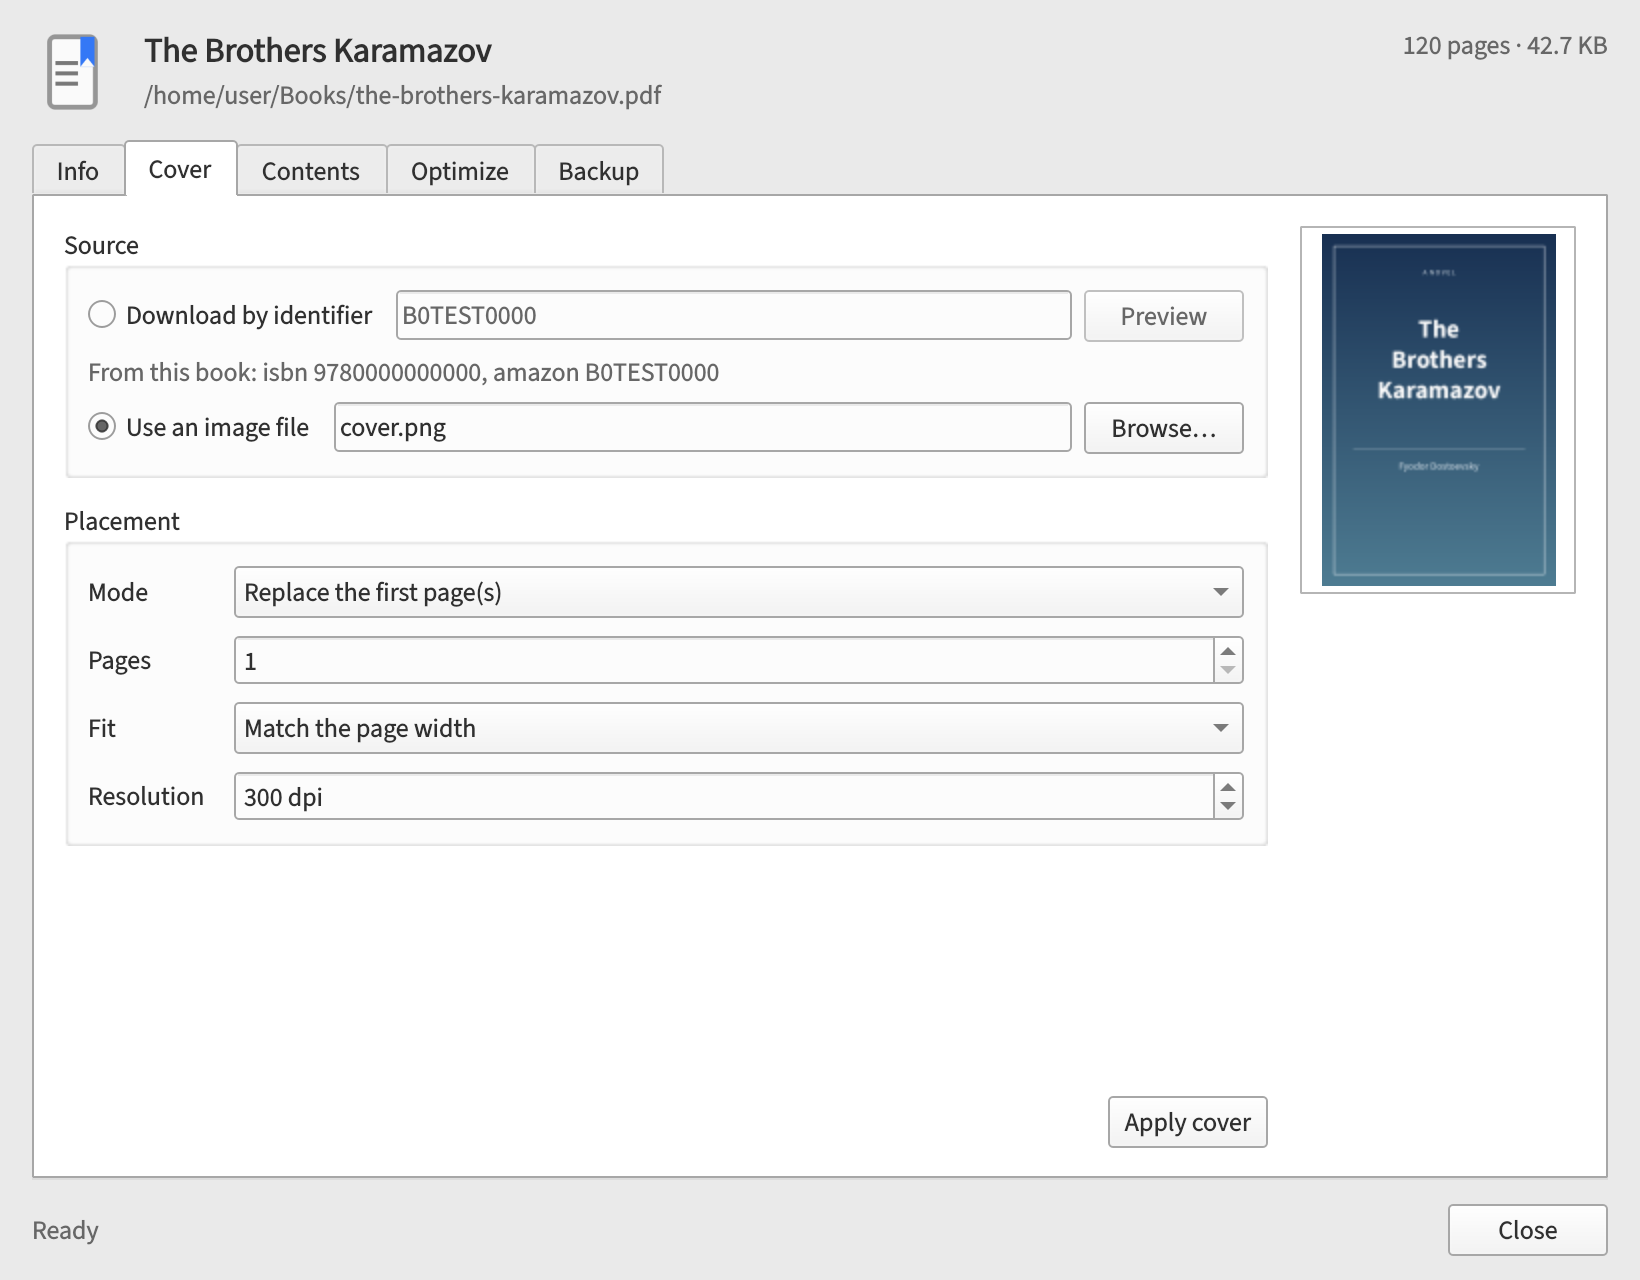
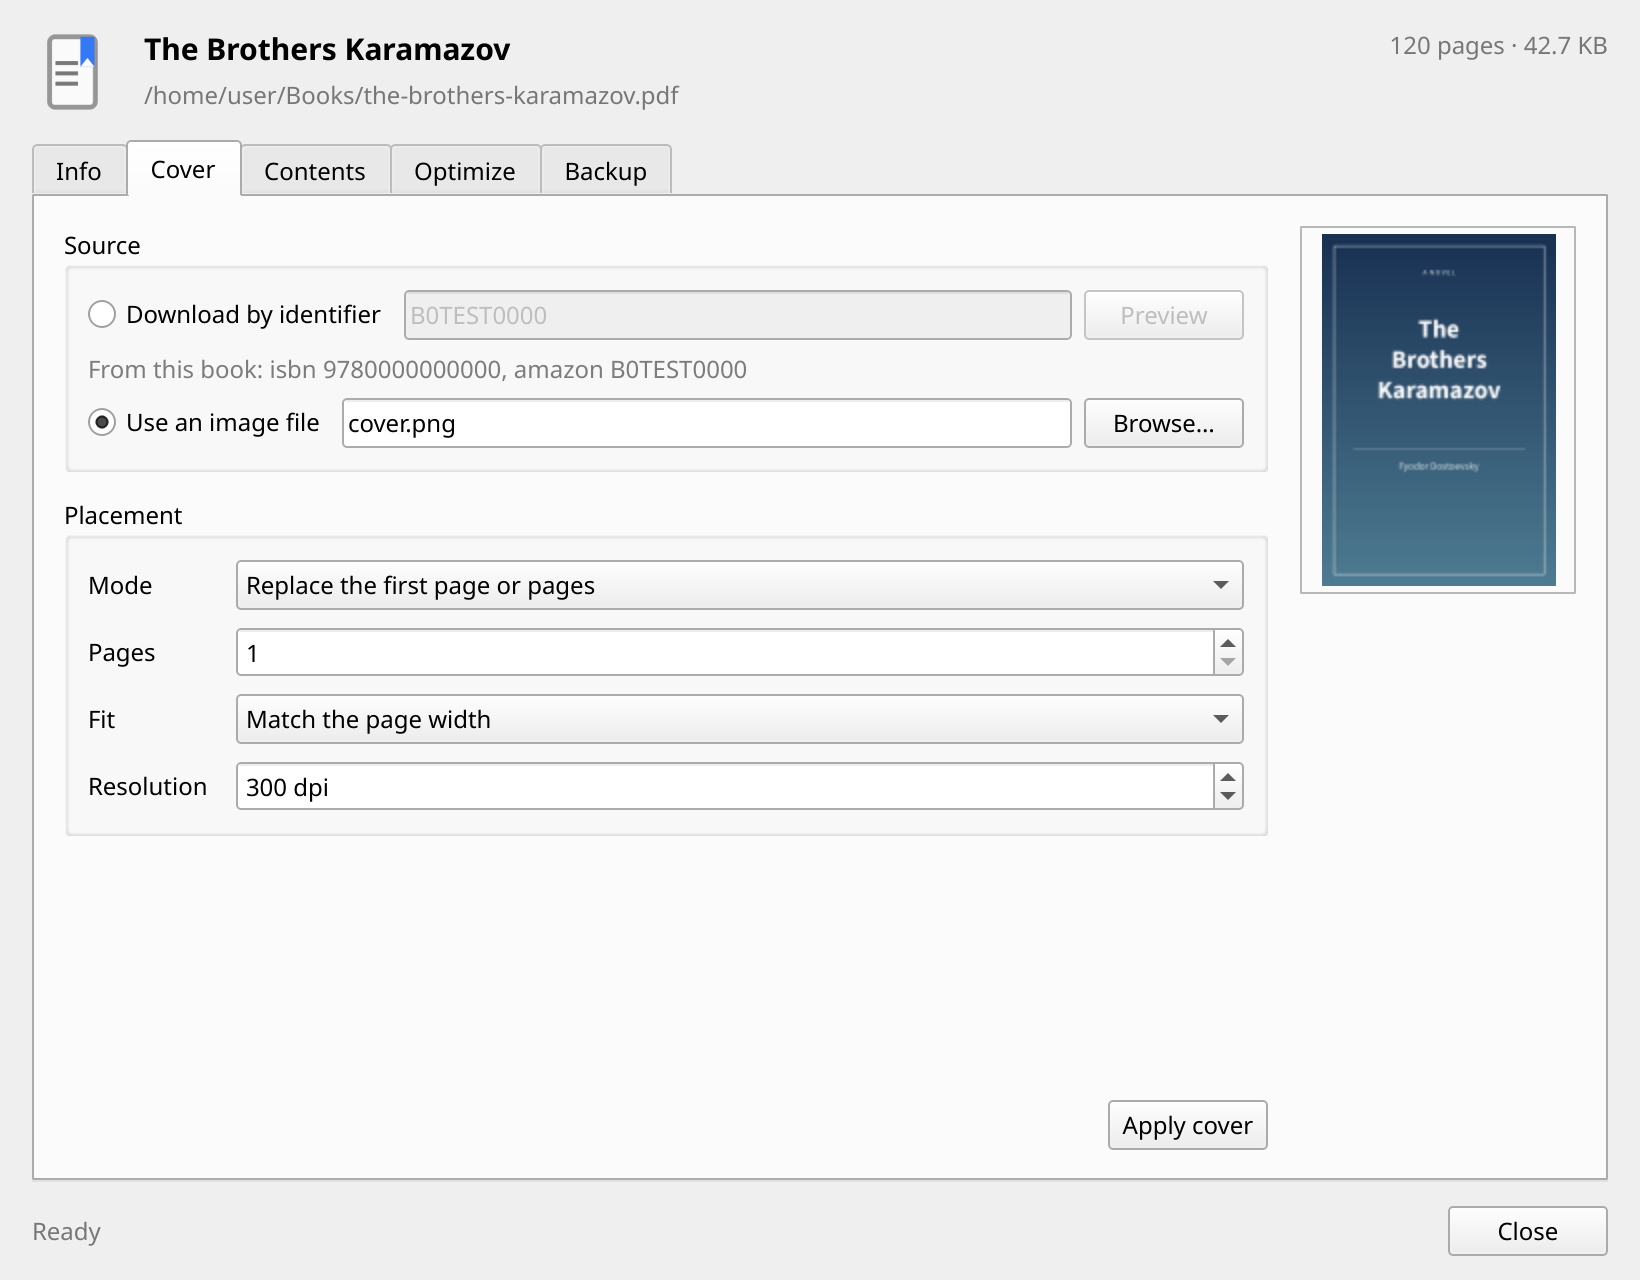
docs: correct and trim the plugin documentation

diff --git a/calpdf_plugin/dialog.py b/calpdf_plugin/dialog.py
@@ -246,7 +246,7 @@ class CalPDFDialog(QDialog):
         download_row = QHBoxLayout()
         self.cover_download_radio = QRadioButton("Download by identifier", source)
         self.cover_id = QLineEdit(source)
-        self.cover_id.setPlaceholderText("ASIN or ISBN")
+        self.cover_id.setPlaceholderText("ASIN, ISBN, or OLID")
         self.cover_preview_button = QPushButton("Preview", source)
         download_row.addWidget(self.cover_download_radio)
         download_row.addWidget(self.cover_id, 1)
@@ -272,7 +272,7 @@ class CalPDFDialog(QDialog):
         form.setHorizontalSpacing(14)
         form.setVerticalSpacing(8)
         self.cover_mode = QComboBox(placement)
-        self.cover_mode.addItem("Replace the first page(s)", Mode.replace)
+        self.cover_mode.addItem("Replace the first page or pages", Mode.replace)
         self.cover_mode.addItem("Prepend before the first page", Mode.insert)
         self.cover_pages = QSpinBox(placement)
         self.cover_pages.setRange(1, 50)
@@ -404,10 +404,9 @@ class CalPDFDialog(QDialog):
         group_layout.setSpacing(8)
         group_layout.addWidget(
             _hint(
-                "qpdf linearizes the file and recompresses its streams, and "
-                "images are optimized without losing quality. The first time "
-                "calpdf modifies a PDF, it saves the original as a separate "
-                ".bak file."
+                "qpdf linearizes the file, recompresses its streams, and "
+                "recompresses images. The first time calpdf modifies a PDF, "
+                "it saves the original as a separate .bak file."
             )
         )
         self.optimize_strip = QCheckBox("Strip ICC color profiles", group)
@@ -554,7 +553,7 @@ class CalPDFDialog(QDialog):
             self.cover_identifier_hint.setText(f"From this book: {shown}")
         else:
             self.cover_identifier_hint.setText(
-                "This book has no identifiers. Enter an ASIN or ISBN."
+                "This book has no identifiers. Enter an ASIN, ISBN, or OLID."
             )
 
     def _load_toc(self) -> None:
@@ -738,7 +737,7 @@ class CalPDFDialog(QDialog):
 
     def _browse_cover_file(self) -> None:
         path, _ = QFileDialog.getOpenFileName(
-            self, "Choose a cover image", "", "Images (*.png *.jpg *.jpeg *.webp)"
+            self, "Choose a cover image", "", "Images (*.png *.jpg *.jpeg)"
         )
         if path:
             self.cover_file.setText(path)
@@ -766,7 +765,7 @@ class CalPDFDialog(QDialog):
     def _preview_cover(self) -> None:
         book_id = self.cover_id.text().strip()
         if not book_id:
-            self._show_error("Enter an ASIN or ISBN first.")
+            self._show_error("Enter an ASIN, ISBN, or OLID first.")
             return
 
         def task():
@@ -788,7 +787,7 @@ class CalPDFDialog(QDialog):
         image_file = self.cover_file.text().strip()
 
         if download and not book_id:
-            self._show_error("Enter an ASIN or ISBN first.")
+            self._show_error("Enter an ASIN, ISBN, or OLID first.")
             return
         if not download and not image_file:
             self._show_error("Choose an image file first.")

diff --git a/README.md b/README.md
@@ -9,7 +9,7 @@ Hi. CalPDF puts [calpdf](https://github.com/athaurian/calpdf) inside Calibre.
 You can replace covers, edit bookmarks, run `qpdf`, and restore backups,
 exactly as you would on the command line.
 
-It delegates all PDF handling to calpdf's own code instead of reimplementing it.
+It delegates all PDF handling to calpdf's code.
 
 ## Tabs
 
@@ -27,10 +27,10 @@ file.
   <img src="docs/screenshots/cover.png" alt="The Cover tab" width="576">
 </p>
 
-The **Cover** tab lets you download a cover by ASIN or ISBN, or pick an image
-from disk. You can replace the first page or prepend a new cover page, and you
-see a preview before you apply it. Downloading a cover needs a network
-connection and an ASIN or ISBN that the cover service knows about.
+The **Cover** tab lets you download a cover by ASIN, ISBN, or Open Library ID
+(OLID), or pick an image from disk. You can replace the first page or several
+pages, or prepend a new cover page. You can preview a cover before you apply it.
+Downloading a cover needs a network connection.
 
 ---
 
@@ -38,29 +38,27 @@ connection and an ASIN or ISBN that the cover service knows about.
   <img src="docs/screenshots/contents.png" alt="The CalPDF dialog, on the Contents tab" width="576">
 </p>
 
-The **Contents** tab shows the PDF's outline as a tree. You can rename a title,
-change its page, add or remove entries, and move them up or down. Import and
-export use the same ToC JSON format as the `calpdf export-toc` and
+The **Contents** tab shows the PDF's bookmarks as a tree. You can rename a
+title, change its page, add or remove entries, and move them up or down. Import
+and export use the same JSON format as the `calpdf export-toc` and
 `calpdf apply-toc` commands.
 
 ---
 
-The **Optimize** tab runs `qpdf` on the PDF for you. It has two options (both
-are off by default): (1) stripping ICC color profiles, and (2) **Keep the
-document metadata**. With the second one off, you lose the title and author, so
-enable it if you want to keep them. Note that optimizing usually makes a PDF
-smaller, but a file that is already well optimized can grow a little, because
-`qpdf` adds linearization data.
+The **Optimize** tab compresses the PDF with `qpdf`. It has two options, both
+off by default: **Strip ICC color profiles** and **Keep the document metadata**.
+The second option keeps the title and author, which the default removes.
+Optimizing usually makes a PDF smaller, but a file that is already well
+optimized can grow a little because `qpdf` adds linearization data.
 
-Finally, the **Backup** tab shows you the `.bak` copy calpdf keeps and lets you
-put it back.
+The **Backup** tab shows the `.bak` copy and restores it.
 
 ## Backup behavior
 
-When you change anything for the first time, calpdf saves a `.bak` copy next to
-the PDF and leaves it alone after that. A cover, a bookmark edit, and an
-optimization all share that one backup. **Restore from backup** puts the copy
-back over the PDF and deletes it, the same way `calpdf restore` does.
+The first time calpdf changes a PDF, it saves a `.bak` copy next to the file and
+leaves that copy alone after that. A cover, a bookmark edit, and an optimization
+all share the one backup. **Restore from backup** puts the copy back over the
+PDF and deletes it, the same way `calpdf restore` does.
 
 If you close the dialog without applying anything, the PDF is untouched.
 
@@ -68,8 +66,8 @@ If you close the dialog without applying anything, the PDF is untouched.
 
 - Calibre 6 or newer.
 - [calpdf](https://github.com/athaurian/calpdf) 0.2 or newer, installed where
-  Calibre can import it. If Calibre cannot find calpdf, the plugin tells you
-  what is wrong.
+  Calibre can import it. If the import or version check fails, the plugin shows
+  an error that explains the problem.
 - `qpdf` on `PATH` for the Optimize tab.
 
 Calibre imports calpdf from the Python installation it runs on, so installing
@@ -104,7 +102,7 @@ make uninstall
 ## Development
 
 ```sh
-make venv     # uses the system calpdf, pikepdf, and Qt
+make venv     # reuses the system pikepdf and Qt
 make test
 make lint
 make ui       # renders docs/screenshots/*.png offscreen
